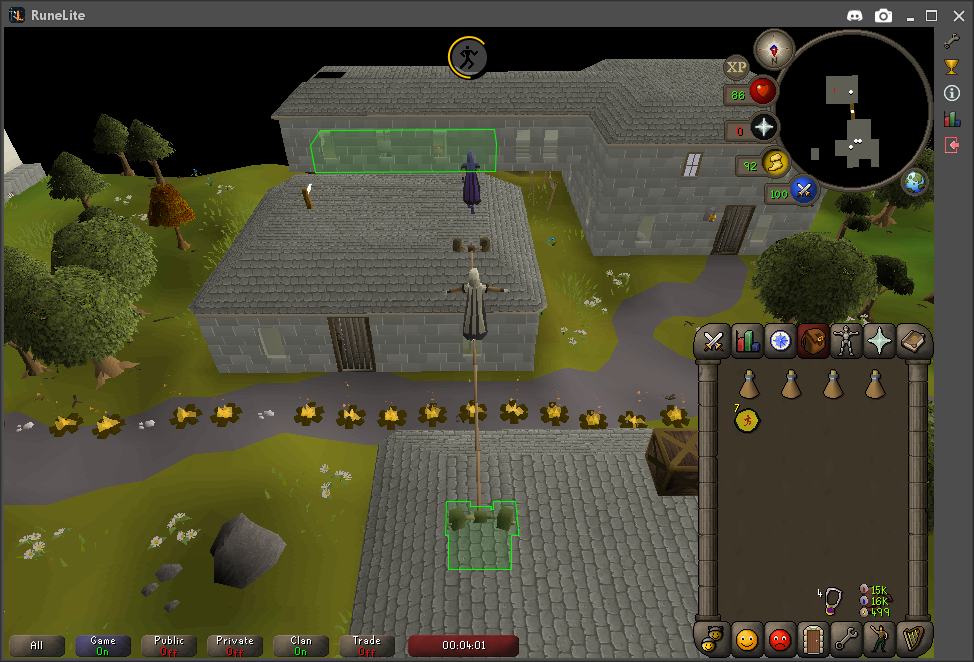
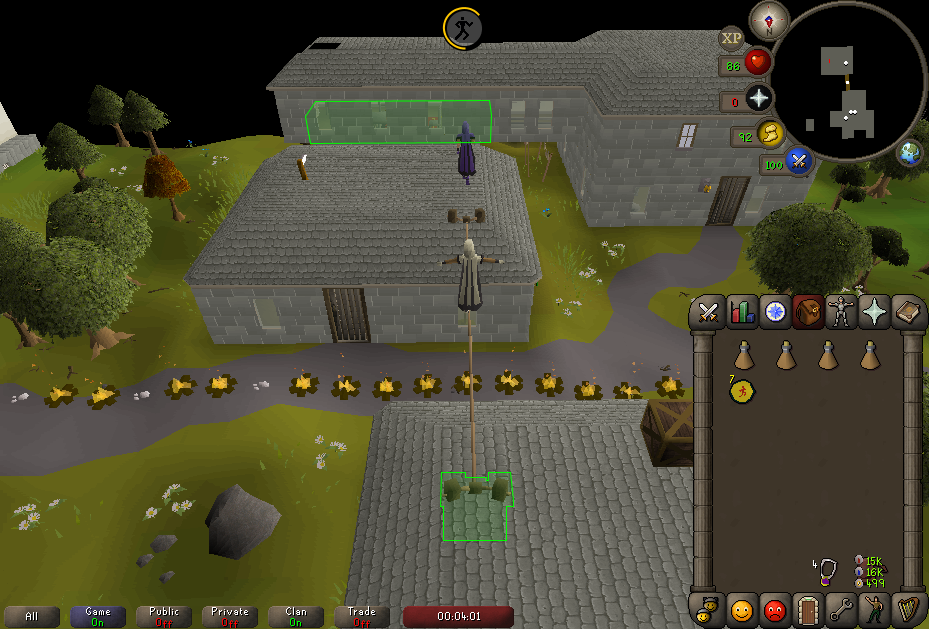
Remove sidebars from images, make header simpler
- Remove RuneLite sidebars from header images
- Make header simpler by removing various boxes

diff --git a/src/components/hero.js b/src/components/hero.js
@@ -1,7 +1,7 @@
 import React from 'react'
 import { Button, Jumbotron } from 'reactstrap'
 import FontAwesomeIcon from '@fortawesome/react-fontawesome'
-import { faStar, faArrowCircleDown } from '@fortawesome/fontawesome-free-solid'
+import { faStar } from '@fortawesome/fontawesome-free-solid'
 import Commit from './commit'
 
 class Hero extends React.Component {
@@ -18,7 +18,7 @@ class Hero extends React.Component {
   updateBackground (index) {
     const image = this.props.images[index]
     const jumbo = document.getElementById('jumbo')
-    jumbo.style.background = `url(${image}) no-repeat center center fixed`
+    jumbo.style.background = `linear-gradient(rgba(0, 0, 0, 0.3), rgba(0, 0, 0, 0.3)), url(${image}) no-repeat center center fixed`
     jumbo.style.backgroundSize = 'cover'
 
     this.setState({
@@ -34,13 +34,11 @@ class Hero extends React.Component {
   static makeNavigationDark () {
     const navbar = Hero.getNavbar()
     navbar.className = navbar.className.replace('navbar-light', 'navbar-dark').replace('bg-white', 'bg-faded')
-    navbar.style = 'background: rgba(0,0,0,0.5)'
   }
 
   static makeNavigationWhite () {
     const navbar = Hero.getNavbar()
     navbar.className = navbar.className.replace('navbar-dark', 'navbar-light').replace('bg-faded', 'bg-white')
-    navbar.style = ''
   }
 
   static handleScroll () {
@@ -80,7 +78,7 @@ class Hero extends React.Component {
   }
 
   render () {
-    const { title, logo, description, buttons, release, stars, commit } = this.props
+    const { title, description, buttons, release, stars, commit } = this.props
 
     const style = {
       backgroundBlendMode: 'darken',
@@ -99,7 +97,7 @@ class Hero extends React.Component {
           display: 'table-cell',
           verticalAlign: 'bottom'
         }}>
-          <div style={{maxWidth: '800px', background: 'rgba(0,0,0,0.5)', padding: 25, paddingLeft: 50 }}>
+          <div style={{maxWidth: '800px', padding: 25, paddingLeft: 50}}>
             <h1 className='display-1'>
               {title}
             </h1>
@@ -111,6 +109,7 @@ class Hero extends React.Component {
                     <FontAwesomeIcon icon={icon} /> {text}
                   </Button>
                   {' '}
+                  <br style={{ marginBottom: 10 }} className='d-md-none' />
                 </span>
               ))}
               <span>
